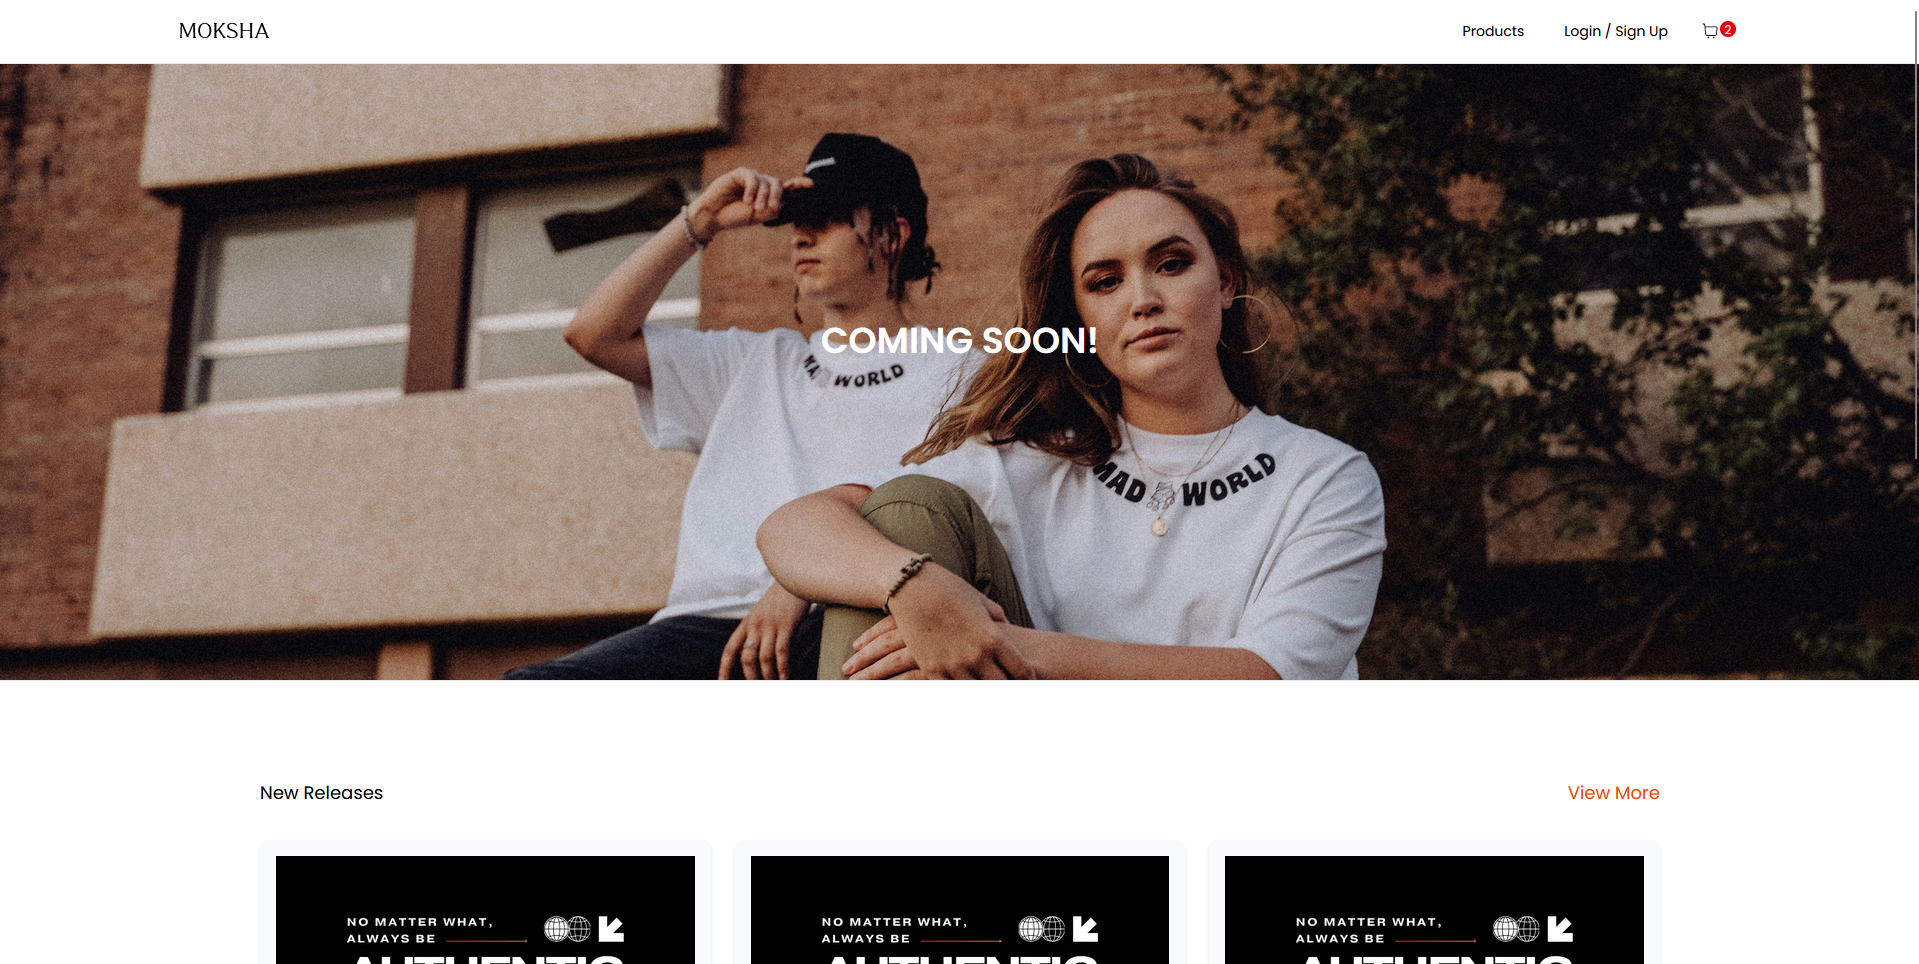
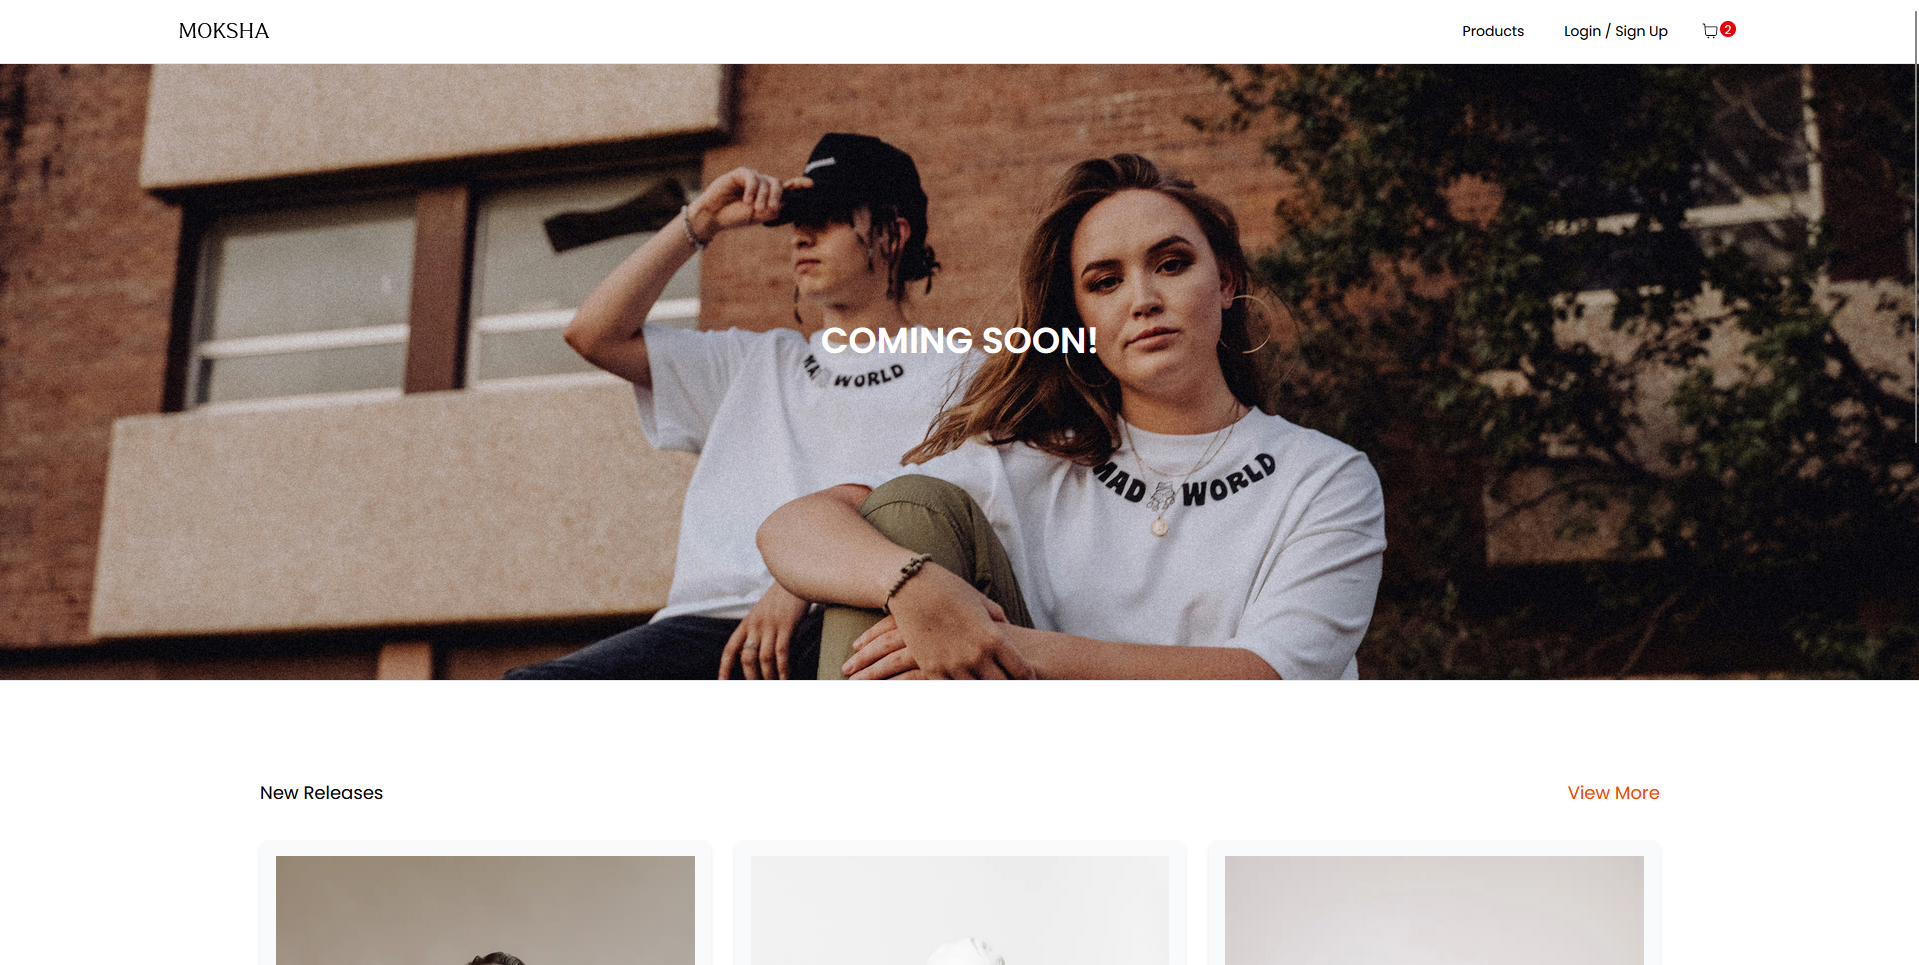
Update AboutMe component description and enhance project images in projects data

diff --git a/app/components/About.tsx b/app/components/About.tsx
@@ -24,10 +24,11 @@ export default function AboutMe() {
         viewport={{ once: true }}
         transition={{ delay: 0.3, duration: 0.6 }}
       >
-        I'm a passionate frontend developer with a knack for creating smooth and
-        interactive web experiences. My journey started from curiosity and grew
-        into a deep love for crafting products that both look great and work
-        beautifully.
+        I'm a full-stack developer passionate about building scalable web
+        applications and engaging digital experiences. From crafting clean and
+        responsive UIs to architecting efficient backend systems, I enjoy
+        working across the stack to turn ideas into functional, user-friendly
+        products.
       </motion.p>
 
       <motion.p
@@ -37,10 +38,10 @@ export default function AboutMe() {
         viewport={{ once: true }}
         transition={{ delay: 0.6, duration: 0.6 }}
       >
-        These days, I’m leveling up my React & TypeScript skills, exploring new
-        design patterns, and staying on top of UI/UX trends. I love
-        collaborating on creative projects that push web boundaries and deliver
-        impactful experiences.
+        I primarily work with technologies like React, Next.js, TypeScript,
+        Node.js, and PostgreSQL. I'm always learning—currently diving deeper
+        into system design, cloud deployments, and refining my UI/UX instincts
+        to deliver impactful and maintainable software.
       </motion.p>
     </section>
   );

diff --git a/app/components/data/projects.ts b/app/components/data/projects.ts
@@ -16,8 +16,12 @@ export const projects = [
     title: "Moksha Clothing Website",
     description:
       "A sleek e-commerce site for Moksha Clothing, showcasing products with a modern design.",
-    image: "/images/mokshaa.png",
-    carousel: ["/images/mokshaa.png", "/images/moksha.png"],
+    image: "/images/moksha.png",
+    carousel: [
+      "/images/moksha.png",
+      "/images/mokshaProducts.png",
+      "/images/mokshaProductDetails.png",
+    ],
     tags: ["Next.js", "Tailwind CSS", "Prisma"],
     liveUrl: "https://moksha-Website.vercel.app",
     githubUrl: "https://github.com/mashhang/moksha-website",
@@ -27,7 +31,16 @@ export const projects = [
     description:
       "Adaptive web app for senior high students to study Gen Math with pre-assessment and visual feedback. Username: 1148-21 Password: Abakada1.",
     image: "/images/learnings.png",
-    carousel: ["/images/learnings.png", "/images/math.png"],
+    carousel: [
+      "/images/dashboard.png",
+      "/images/dashboard-mb.png",
+      "/images/my-lesson.png",
+      "/images/my-lessons-mb.png",
+      "/images/current-lesson.png",
+      "/images/current-lesson-mb.png",
+      "/images/progress.png",
+      "/images/progress-mb.png",
+    ],
     tags: ["Next.js", "Tailwind", "Supabase", "Prisma", "Render"],
     liveUrl: "https://math-learnings.vercel.app",
     githubUrl: "https://github.com/mashhang/learning",
